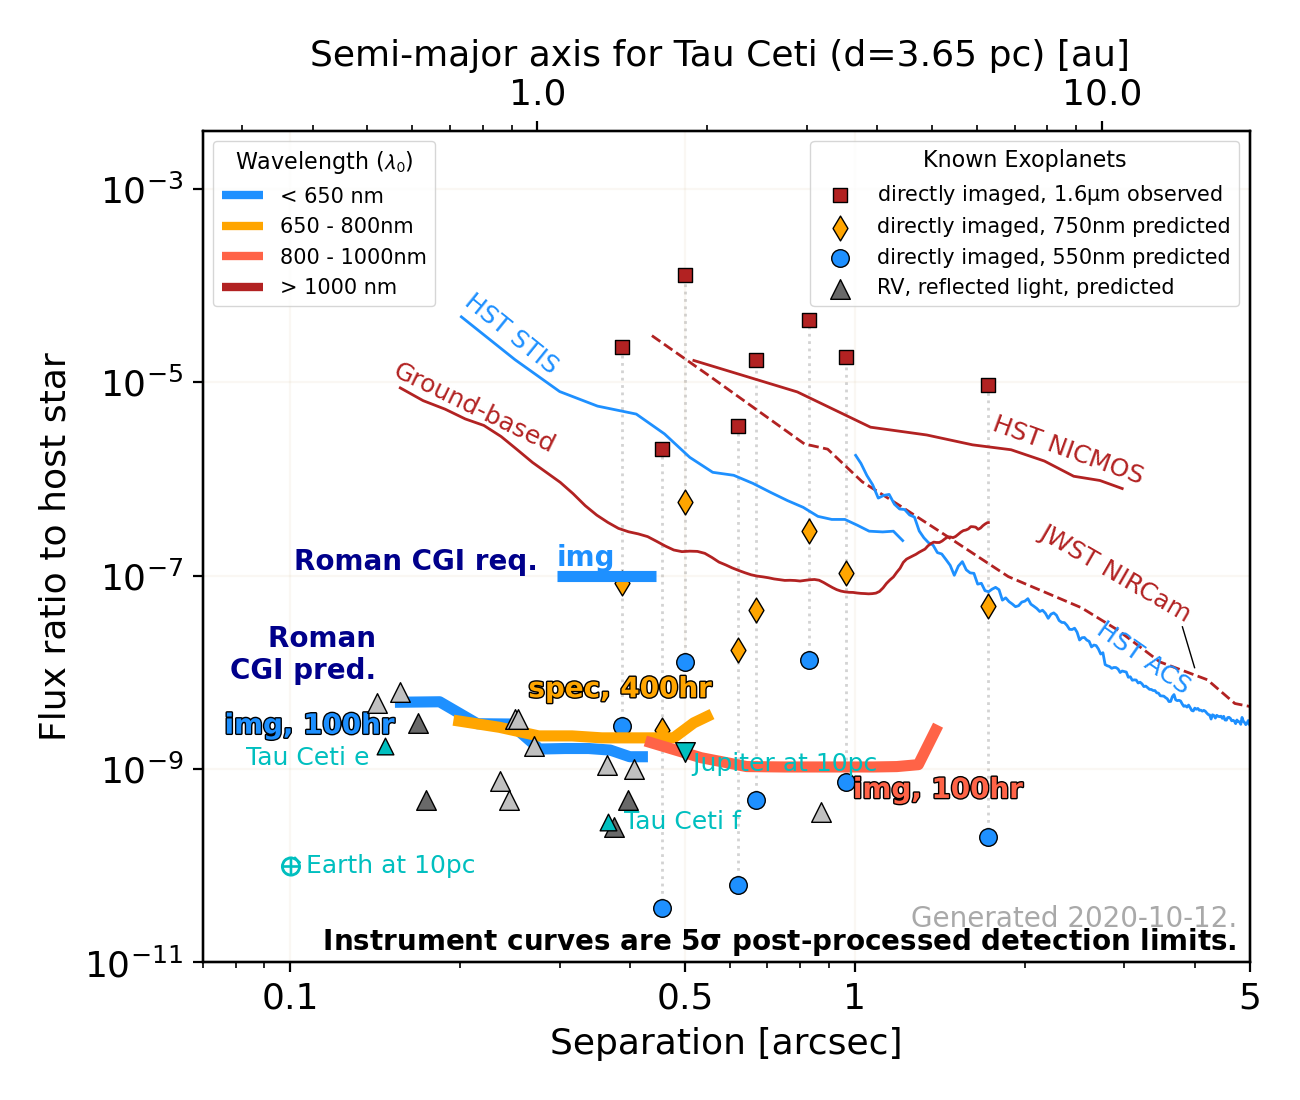
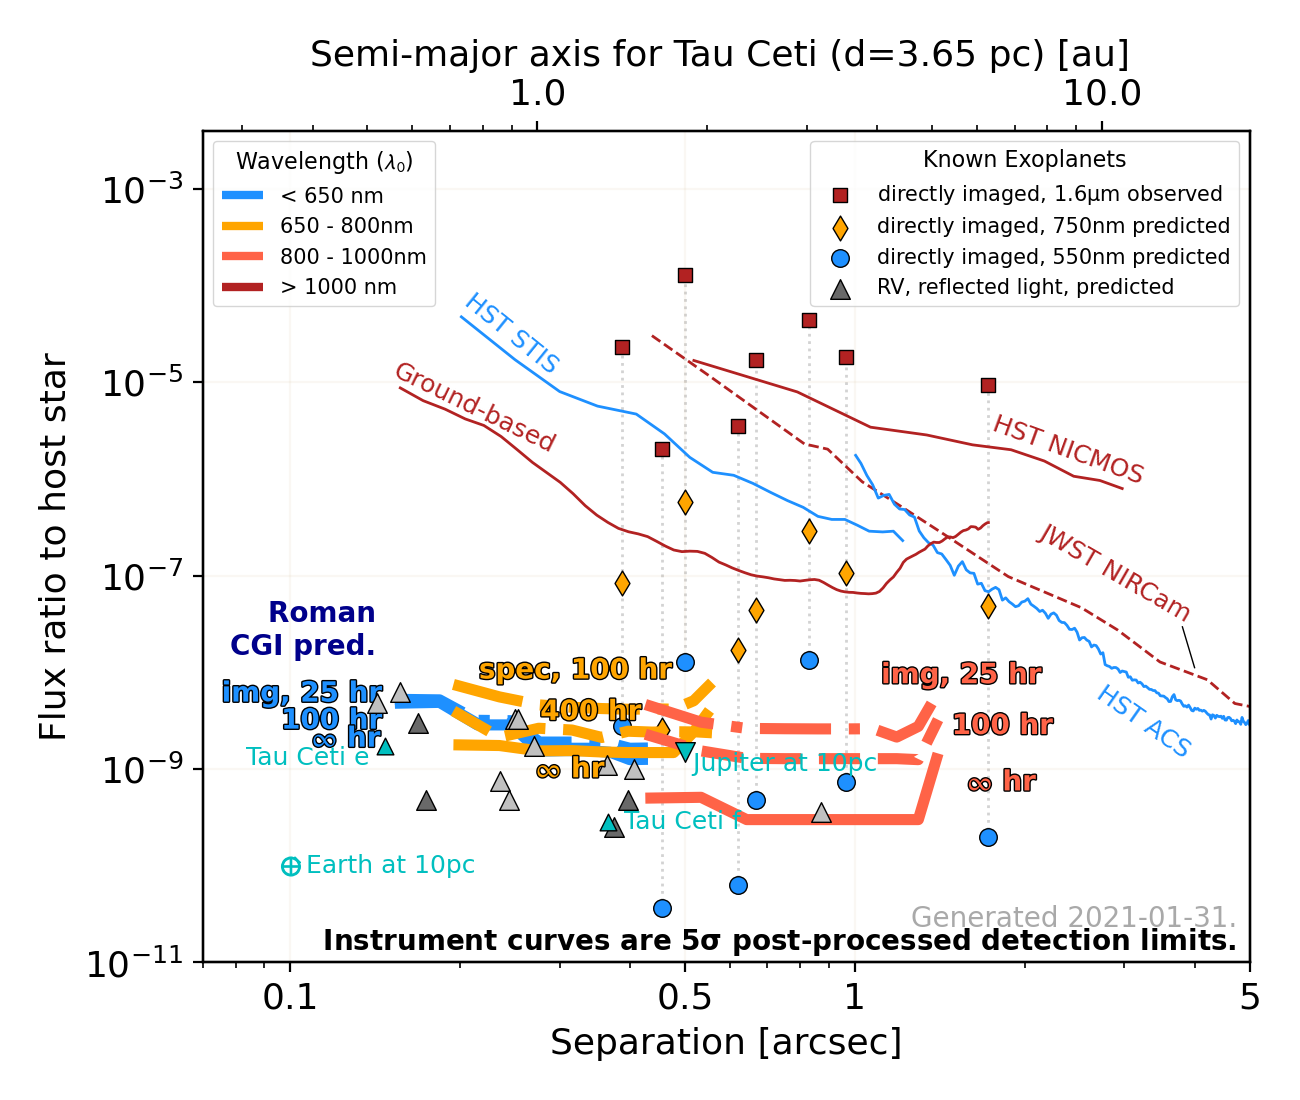
Updated documentation, data and minor tweaks in plot_flux_ratio.py to adjust the position of the labels in some combinations of integration times
Added updated CGI Perf version, G0V stellar type as the reference one, and the three (optional) levels of integration times in documentation/description.md. Tested with printing out exposure times and without them. Updated data files to today's CGI Perf version.

diff --git a/plot_flux_ratio.py b/plot_flux_ratio.py
@@ -337,11 +337,11 @@ if cfg['pred_img_short'] is True:
     ax1.text(dat['Rho(as)'][0], 2.5*dat['contr_snr5'][0], 'Roman  \nCGI pred.  ', color='darkblue',\
         horizontalalignment='right', verticalalignment='bottom', weight='bold', fontsize=ccfs+1)
     if cfg['exp_t'] is True:
-        txt = ax1.text(0.95*dat['Rho(as)'][0], 1.6*dat['contr_snr5'][0], \
+        txt = ax1.text(0.99*dat['Rho(as)'][0], 1.6*dat['contr_snr5'][0], \
         'img, %g hr'%(dat['t_int_hr'][0]), color=c_v, weight='bold',\
         horizontalalignment='right', verticalalignment='top', fontsize=ccfs+1)
     else:
-        txt = ax1.text(0.95*dat['Rho(as)'][0], 1.8*dat['contr_snr5'][0], 'img', color=c_v, weight='bold',\
+        txt = ax1.text(0.99*dat['Rho(as)'][0], 1.8*dat['contr_snr5'][0], 'img', color=c_v, weight='bold',\
             horizontalalignment='right', verticalalignment='top', fontsize=ccfs+1)
     txt.set_path_effects([PathEffects.withStroke(linewidth=1, foreground='k')])
     caption += extract_short_caption(fname)
@@ -358,16 +358,16 @@ if cfg['pred_img_medium'] is True:
         horizontalalignment='right', verticalalignment='bottom', weight='bold', fontsize=ccfs+1)
     if cfg['exp_t'] is True:
         if cfg['pred_img_short'] is False:
-            txt = ax1.text(0.95*dat['Rho(as)'][0], 1.5*dat['contr_snr5'][0], \
+            txt = ax1.text(0.99*dat['Rho(as)'][0], 1.5*dat['contr_snr5'][0], \
             'img, %g hr'%(dat['t_int_hr'][0]), color=c_v, weight='bold',\
             horizontalalignment='right', verticalalignment='top', fontsize=ccfs+1)
         else:
-            txt = ax1.text(0.95*dat['Rho(as)'][0], 0.9*dat['contr_snr5'][0], \
+            txt = ax1.text(0.99*dat['Rho(as)'][0], 0.9*dat['contr_snr5'][0], \
             '%g hr'%(dat['t_int_hr'][0]), color=c_v, weight='bold',\
             horizontalalignment='right', verticalalignment='top', fontsize=ccfs+1)
     else:
         if cfg['pred_img_short'] is False:
-            txt = ax1.text(0.95*dat['Rho(as)'][0], 1.8*dat['contr_snr5'][0], 'img', color=c_v, weight='bold',\
+            txt = ax1.text(0.99*dat['Rho(as)'][0], 1.8*dat['contr_snr5'][0], 'img', color=c_v, weight='bold',\
             horizontalalignment='right', verticalalignment='top', fontsize=ccfs+1)
     txt.set_path_effects([PathEffects.withStroke(linewidth=1, foreground='k')])
     caption += extract_short_caption(fname)
@@ -379,21 +379,21 @@ if cfg['pred_img_long'] is True:
     dat['contr_snr5'] = dat['contr']*5/dat['SNR']
     dat['Rho(as)'] = dat['l/D'] * (dat['lambda'] / d_tel).decompose()*206265
     ax1.plot(dat['Rho(as)'], dat['contr_snr5'], color=c_v, linewidth=lw2, linestyle=lsl, label='')
-    if cfg['pred_img_short'] is False and cfg['pred_img_medium'] is False:
+    if (cfg['pred_img_short'] is False) and (cfg['pred_img_medium'] is False):
         ax1.text(dat['Rho(as)'][0], 2.5*dat['contr_snr5'][0], 'Roman  \nCGI pred.  ', color='darkblue',\
         horizontalalignment='right', verticalalignment='bottom', weight='bold', fontsize=ccfs+1)
     if cfg['exp_t'] is True:
         if (cfg['pred_img_short'] is False) and (cfg['pred_img_medium'] is False):
-            txt = ax1.text(0.95*dat['Rho(as)'][0], 1.5*dat['contr_snr5'][0], \
+            txt = ax1.text(0.99*dat['Rho(as)'][0], 1.5*dat['contr_snr5'][0], \
             'img, $\infty$ hr', color=c_v, weight='bold',\
             horizontalalignment='right', verticalalignment='top', fontsize=ccfs+1)
         else:
-            txt = ax1.text(0.95*dat['Rho(as)'][0], 0.6*dat['contr_snr5'][0], \
+            txt = ax1.text(0.99*dat['Rho(as)'][0], 0.6*dat['contr_snr5'][0], \
             '$\infty$ hr', color=c_v, weight='bold',\
             horizontalalignment='right', verticalalignment='top', fontsize=ccfs+1)
     else:
         if (cfg['pred_img_short'] is False) and (cfg['pred_img_medium'] is False):
-            txt = ax1.text(0.95*dat['Rho(as)'][0], 1.8*dat['contr_snr5'][0], 'img', color=c_v, weight='bold',\
+            txt = ax1.text(0.99*dat['Rho(as)'][0], 1.8*dat['contr_snr5'][0], 'img', color=c_v, weight='bold',\
             horizontalalignment='right', verticalalignment='top', fontsize=ccfs+1)
     txt.set_path_effects([PathEffects.withStroke(linewidth=1, foreground='k')])
     caption += extract_short_caption(fname)
@@ -413,7 +413,7 @@ if cfg['pred_spec_short'] is True:
         'spec, %g hr'%(dat['t_int_hr'][0]), color=c_band3, weight='bold',\
         horizontalalignment='right', verticalalignment='bottom', fontsize=ccfs+1, zorder=6)
     else:
-        txt = ax1.text(dat['Rho(as)'][0], 0.2*dat['contr_snr5'][0], \
+        txt = ax1.text(0.54*dat['Rho(as)'][-1], 1.2*dat['contr_snr5'][0], \
         'spec', color=c_band3, weight='bold',\
         horizontalalignment='left', verticalalignment='top', fontsize=ccfs+1, zorder=6)
     txt.set_path_effects([PathEffects.withStroke(linewidth=1, foreground='k')])
@@ -431,7 +431,7 @@ if cfg['pred_spec_medium'] is True:
             horizontalalignment='left', verticalalignment='center', weight='bold', fontsize=ccfs+1)
     if cfg['exp_t'] is True:
         if cfg['pred_spec_short'] is False:
-            txt = ax1.text(dat['Rho(as)'][0], 2.5*dat['contr_snr5'][0], \
+            txt = ax1.text(0.85*dat['Rho(as)'][-1], 1.0*dat['contr_snr5'][0], \
             'spec, %g hr'%(dat['t_int_hr'][0]), color=c_band3, weight='bold',\
             horizontalalignment='right', verticalalignment='bottom', fontsize=ccfs+1, zorder=6)
         else:
@@ -440,7 +440,7 @@ if cfg['pred_spec_medium'] is True:
             horizontalalignment='right', verticalalignment='bottom', fontsize=ccfs+1, zorder=6)
     else:
         if cfg['pred_spec_short'] is False:
-            txt = ax1.text(dat['Rho(as)'][0], 0.4*dat['contr_snr5'][0], \
+            txt = ax1.text(0.54*dat['Rho(as)'][-1], 1.4*dat['contr_snr5'][0], \
             'spec', color=c_band3, weight='bold',\
             horizontalalignment='left', verticalalignment='top', fontsize=ccfs+1, zorder=6)
     txt.set_path_effects([PathEffects.withStroke(linewidth=1, foreground='k')])
@@ -459,7 +459,7 @@ if cfg['pred_spec_long'] is True:
     if cfg['exp_t'] is True:
         if ( cfg['pred_spec_short'] is False) and (cfg[ 'pred_spec_medium'] is False):
             txt = ax1.text(dat['Rho(as)'][-1], 1.5*dat['contr_snr5'][0], \
-            'img, $\infty$ hr', color=c_band3, weight='bold',\
+            'spec, $\infty$ hr', color=c_band3, weight='bold',\
             horizontalalignment='right', verticalalignment='bottom', fontsize=ccfs+1, zorder=6)
         else:
             txt = ax1.text(0.65*dat['Rho(as)'][-1], 0.4*dat['contr_snr5'][0], \
@@ -467,7 +467,7 @@ if cfg['pred_spec_long'] is True:
             horizontalalignment='right', verticalalignment='bottom', fontsize=ccfs+1, zorder=6)
     else:
         if (cfg['pred_spec_short'] is False) and (cfg['pred_spec_medium'] is False):
-            txt = ax1.text(dat['Rho(as)'][0], 0.8*dat['contr_snr5'][0], \
+            txt = ax1.text(0.54*dat['Rho(as)'][-1], 1.8*dat['contr_snr5'][0], \
             'spec', color=c_band3, weight='bold',\
             horizontalalignment='left', verticalalignment='top', fontsize=ccfs+1, zorder=6)
     txt.set_path_effects([PathEffects.withStroke(linewidth=1, foreground='k')])
@@ -533,7 +533,7 @@ if cfg['pred_wide_img_long'] is True:
         ax1.text(3.4*dat['Rho(as)'][0], 1*dat['contr_snr5'][0], ' Roman\n CGI pred.', color='darkblue',\
             horizontalalignment='left', verticalalignment='bottom', weight='bold', fontsize=ccfs+1)
     if cfg['exp_t'] is True:
-        if cfg['pred_wide_img_short'] and cfg['pred_wide_img_medium'] is False:
+        if (cfg['pred_wide_img_short'] is False) and (cfg['pred_wide_img_medium'] is False):
             txt = ax1.text(1.2*dat['Rho(as)'][-1], 1.9*dat['contr_snr5'][-1], \
             'img, $\infty$ hr', color=c_band4, weight='bold',\
             horizontalalignment='center', verticalalignment='top', fontsize=ccfs+1)
@@ -543,7 +543,7 @@ if cfg['pred_wide_img_long'] is True:
             horizontalalignment='center', verticalalignment='top', fontsize=ccfs+1)
     else:
         if (cfg['pred_wide_img_short'] is False) and (cfg['pred_wide_img_medium'] is False):
-            txt = ax1.text(1.4*dat['Rho(as)'][-1], 0.8*dat['contr_snr5'][-3], \
+            txt = ax1.text(1.0*dat['Rho(as)'][-1], 0.8*dat['contr_snr5'][-3], \
             'img', color=c_band4, weight='bold',\
             horizontalalignment='right', verticalalignment='top', fontsize=ccfs+1)
     txt.set_path_effects([PathEffects.withStroke(linewidth=1, foreground='k')])

diff --git a/documentation/description.md b/documentation/description.md
@@ -78,14 +78,14 @@ Lacy models are described at https://ui.adsabs.harvard.edu/abs/2019arXiv19111058
 
 
 ### Performance predictions :
-* **Description**: Model-predicted 5$\sigma$ final detection limits for a V=5 star in the three official observing modes. Model uncertainty factors (MUFs) for observatory and CGI set to unity. No performance margins. Incorporate results from OS9, with further updates to CGPERF tables, bench warping and DM temperature stability, and coating reflectivity. (Oct 1, 2020 spreadsheet version) 
+* **Description**: Model-predicted 5$\sigma$ final detection limits for a V=5 G0V star in the three official observing modes. Model uncertainty factors (MUFs) for observatory and CGI set to unity. No performance margins. Incorporate results from OS9, with further updates to CGPERF tables, bench warping and DM temperature stability, and coating reflectivity. (Feb 1, 2021 spreadsheet version) 
 * **Bandpass:**
     * narrow FOV imaging : 575nm / 10% BW, Hybrid Lyot coronagraph.
     * spectroscopy : R=50 spectroscopy, 730nm / 15% BW, Shaped Pupil bowtie coronagraph.
     * wide FOV imaging : 825nm / 10% BW, Shaped Pupil wide field of view coronagraph.
 * **Integration time:**
-    * imaging : 100hr
-    * spectroscopy : 400hr.
+    * imaging : 25, 100, 10,000hr ('infinite' time)
+    * spectroscopy : 100, 400, 10,000hr
 * **Post-processing:** Reference PSF subtraction, with an assumed additional factor of 2 improvement over the basic-RDI residual speckle component, from the application of more sophisticated post-processing techniques.
 * **Reference:** B. Kern & B. Nemati spreadsheet, personal communication.
 
